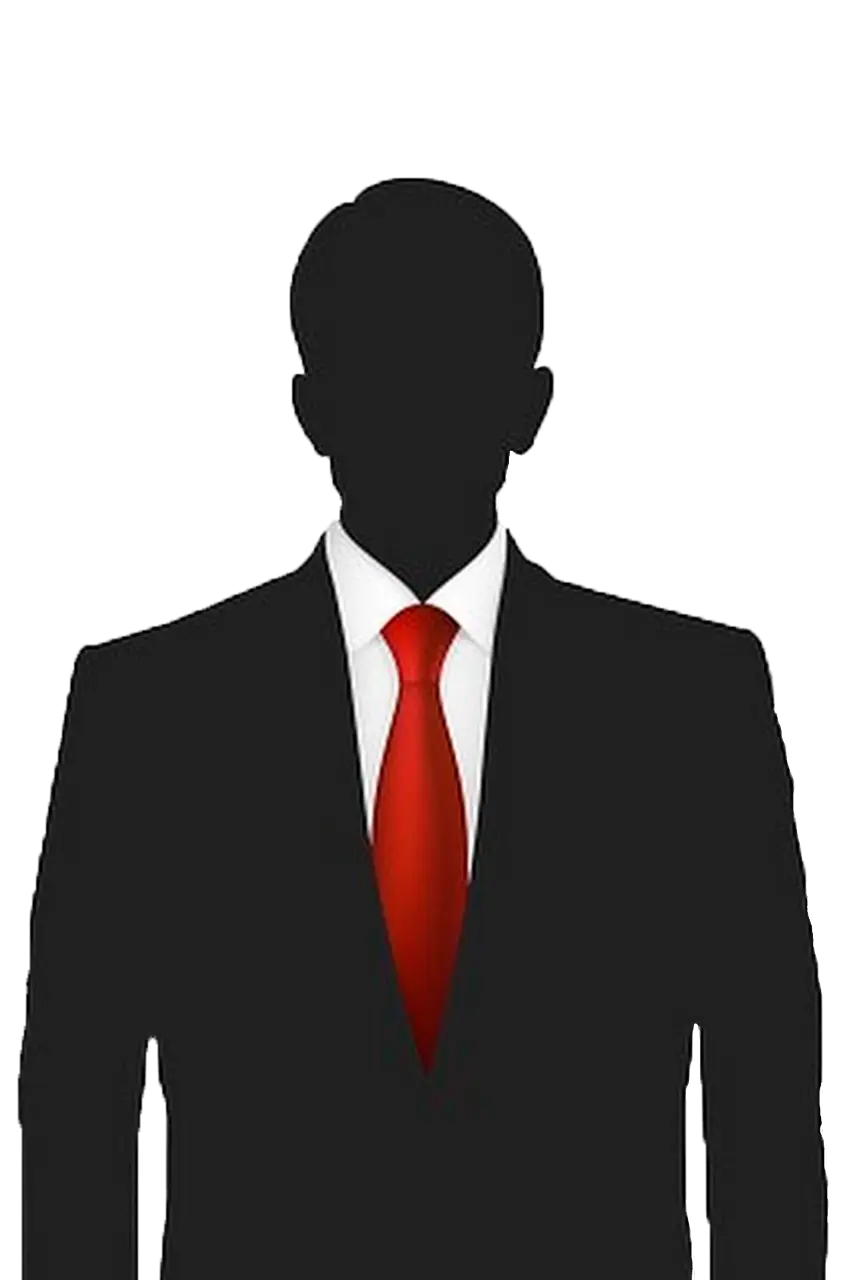
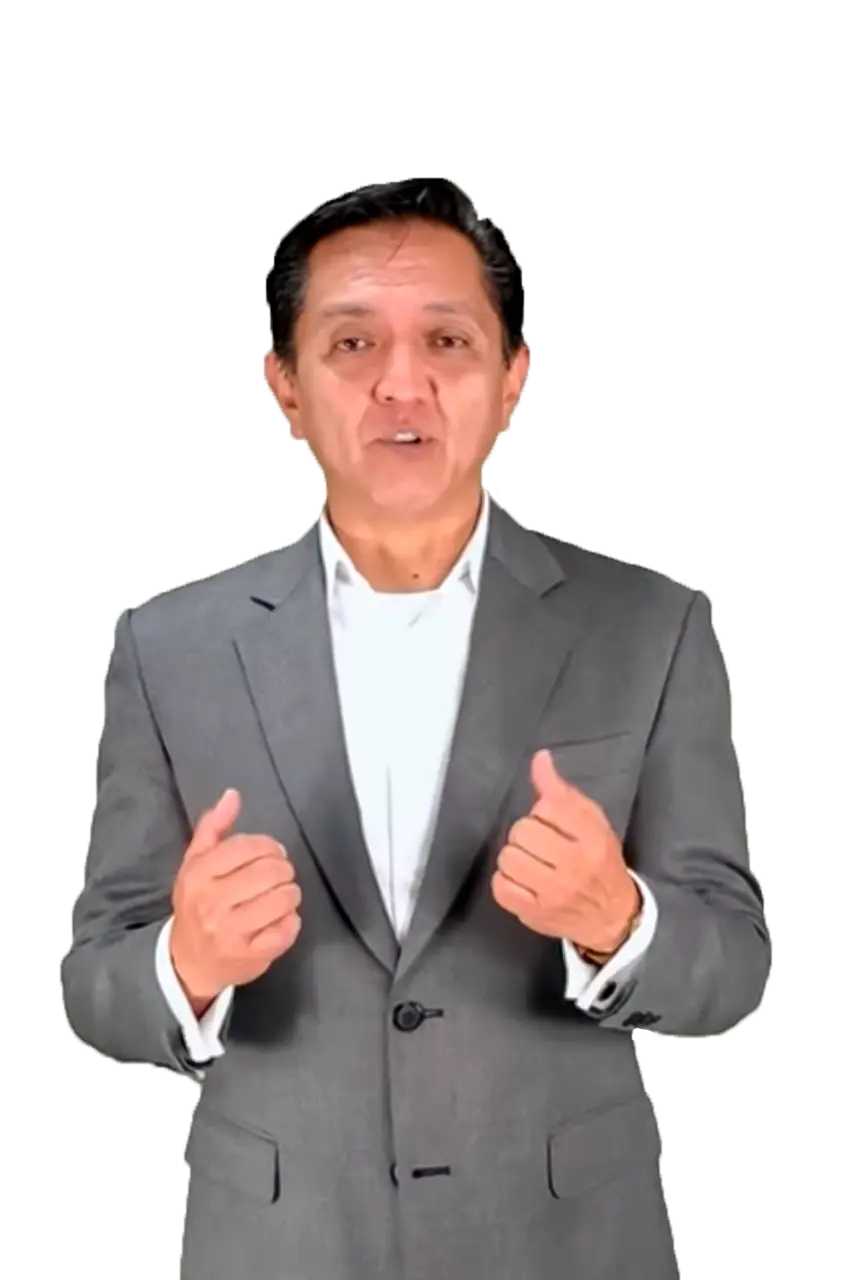
Update profile

diff --git a/src/data/perfiles-candidatos.ts b/src/data/perfiles-candidatos.ts
@@ -13,6 +13,7 @@ export interface PerfilCandidato {
   logrosDestacados?: string[];
   controversias?: string[];
   situacionLegal?: string;
+  religion?: string;
 }
 
 export interface BinomioCandidatos {
@@ -58,7 +59,9 @@ export const perfilesCandidatos: BinomioCandidatos[] = [
         "Inicio en el sindicalismo cocalero a los 23 años",
         "Elegido vicepresidente de federaciones cocaleras (2018)",
         "Ratificado por unanimidad en el cargo sindical (2021, 2023)",
-        "Asumió la Presidencia del Senado, ratificado en cinco ocasiones"
+        "Senador por Cochabamba (2020) - MAS",
+        "Presidente del Senado (2020-2025) - ratificado en cinco ocasiones",
+        "Primera candidatura presidencial (2025) - Alianza Popular"
       ],
       partidosAnteriores: [
         "Movimiento Al Socialismo (gestiones de Evo Morales y Luis Arce)"
@@ -131,11 +134,13 @@ export const perfilesCandidatos: BinomioCandidatos[] = [
       ],
       carreraPolitica: [
         "Vicepresidente del Concejo Municipal de Cochabamba (1992)",
-        "Alcalde de Cochabamba (1993-2000, cuatro periodos consecutivos)",
-        "Candidato presidencial (2000)",
-        "Primer Prefecto de Cochabamba elegido democráticamente (2005)",
-        "Candidato presidencial (2009) - segundo lugar",
-        "Alcalde de Cochabamba (2021-presente) - quinta vez"
+        "Alcalde de Cochabamba (1994-1996) - NFR (Electo)",
+        "Alcalde de Cochabamba (1996-2000) - NFR (Reelecto)",
+        "Alcalde de Cochabamba (2000) - NFR (Electo)",
+        "Candidato presidencial NFR (2002) - No electo",
+        "Prefecto de Cochabamba (2006-2008) - AUN (Electo)",
+        "Alcalde de Cochabamba (2021-2025) - SUMATE (Electo)",
+        "Candidato presidencial APB SUMATE (2025) - segunda candidatura"
       ],
       partidosAnteriores: [
         "Acción Democrática Nacionalista (ADN)",
@@ -199,13 +204,17 @@ export const perfilesCandidatos: BinomioCandidatos[] = [
         "Investigador en Woodrow Wilson Center"
       ],
       carreraPolitica: [
-        "Subsecretario de Inversión Pública (1989) - gobierno de Jaime Paz Zamora",
+        "Subsecretario de Inversión Pública y Cooperación Internacional (1989) - Ministerio de Planeamiento",
+        "Subsecretario de Inversión Pública (1990)",
         "Ministro de Finanzas (1992)",
         "Director de campaña electoral ADN (1993)",
         "Subjefe Nacional ADN (1995)",
         "Vicepresidente de Bolivia (1997-2001) - gobierno de Hugo Banzer",
         "Presidente de Bolivia (2001-2002)",
-        "Candidato presidencial (2005, 2014, 2020, 2025)"
+        "Candidato presidencial PODEMOS (2005) - No electo",
+        "Candidato presidencial PDC (2014) - No electo",
+        "Candidato presidencial Libre21 (2020) - Retirado antes de la elección",
+        "Candidato presidencial LIBRE (2025) - cuarta candidatura"
       ],
       partidosAnteriores: [
         "MIR", "ADN", "PODEMOS", "Partido Demócrata Cristiano (PDC)"
@@ -353,7 +362,8 @@ export const perfilesCandidatos: BinomioCandidatos[] = [
         "Primera mujer presidenta del Senado de Bolivia",
         "Alcaldesa de la segunda ciudad más poblada de Bolivia",
         "Liderazgo juvenil y universitario"
-      ]
+      ],
+      religion: "Metodista"
     },
     vicepresidente: {
       nombre: "Jorge Guillermo Richter Ramírez",
@@ -412,12 +422,12 @@ export const perfilesCandidatos: BinomioCandidatos[] = [
         "Administrador público municipal"
       ],
       carreraPolitica: [
-        "Líder de la agrupación ciudadana UNIR",
-        "Diputado por MIR (2002)",
-        "Candidato con PODEMOS (2005)",
-        "Presidente del Concejo Municipal de Tarija (2013)",
-        "Alcalde de Tarija (2015)",
-        "Senador por Comunidad Ciudadana (2020)"
+        "Diputado uninominal MIR-NM-FRI (2002-2003) - Electo",
+        "Diputado uninominal PODEMOS (2005-2010) - Electo",
+        "Concejal Municipal UNIR (2010-2015) - Electo",
+        "Alcalde Municipal UNIR (2015-2020) - Electo",
+        "Senador Comunidad Ciudadana (2020-2025) - Electo",
+        "Candidato presidencial PDC (2025) - primera candidatura presidencial"
       ],
       partidosAnteriores: [
         "MIR", "PODEMOS", "Comunidad Ciudadana", "UNIR", "Primero la Gente"
@@ -426,7 +436,8 @@ export const perfilesCandidatos: BinomioCandidatos[] = [
         "Hijo del expresidente Jaime Paz Zamora",
         "Experiencia ejecutiva y legislativa",
         "Formación internacional en gestión política"
-      ]
+      ],
+      religion: "Católico"
     },
     vicepresidente: {
       nombre: "Edmand Lara Montaño",
@@ -486,12 +497,14 @@ export const perfilesCandidatos: BinomioCandidatos[] = [
         "Jefe de barrio La Cuchilla, Club Hípico Santa Cruz"
       ],
       carreraPolitica: [
-        "Concejal municipal (1989-1991)",
-        "Alcalde de Santa Cruz (1996-2000, reelecto en 2000)",
+        "Concejal municipal (1989-1991) - UCS (Electo)",
+        "Alcalde de Santa Cruz (1995-1999) - UCS (Electo)",
+        "Alcalde de Santa Cruz (2000-2002) - UCS (Reelecto)",
+        "Candidato presidencial UCS (2002) - No electo",
         "Jefe nacional del partido UCS (desde 1996)",
-        "Candidato presidencial (2002)",
-        "Candidato a primer concejal (2015)",
-        "Alcalde de Santa Cruz (2021-2026) con 35.41% de votos"
+        "Candidato a primer concejal (2015) - UCS (Electo)",
+        "Alcalde de Santa Cruz (2021-2025) - UCS (Electo) con 35.41% de votos",
+        "Candidato presidencial UCS (2025) - segunda candidatura"
       ],
       partidosAnteriores: [
         "Unidad Cívica Solidaridad (UCS)", "ADN", "MIR"
@@ -547,11 +560,14 @@ export const perfilesCandidatos: BinomioCandidatos[] = [
         "Constructor de Green Tower (uno de los edificios más modernos de Bolivia)"
       ],
       carreraPolitica: [
-        "Ministro de Planeamiento (1991) - gobierno de Jaime Paz Zamora",
-        "Candidato a vicepresidente por MIR (1997)",
-        "Candidato presidencial con Unidad Nacional (2005, 2009, 2014)",
-        "Aspirante a vicepresidente con Jeanine Áñez (2020)",
-        "Candidato presidencial (2025)"
+        "Ministro de Planeamiento y Coordinación (1992) - gobierno de Jaime Paz Zamora",
+        "Candidato a vicepresidente por MIR (1997) - No electo",
+        "Candidato presidencial con Unidad Nacional (2005) - No electo",
+        "Asambleista Constituyente (2006-2009) - UN (Electo)",
+        "Candidato presidencial UN (2009) - No electo",
+        "Candidato presidencial Unidad Demócrata (2014) - No electo",
+        "Candidato a vicepresidente Juntos (2020) - Retirado antes de la elección",
+        "Candidato presidencial UNIDAD (2025) - cuarta candidatura"
       ],
       partidosAnteriores: [
         "MIR", "Unidad Nacional", "Consenso Popular", "Unidad Demócrata", "Juntos"
@@ -601,45 +617,47 @@ export const perfilesCandidatos: BinomioCandidatos[] = [
       slug: "ngp"
     },
     presidente: {
-      nombre: "No confirmado",
+      nombre: "Jaime Guillermo Dunn de Avila",
       cargo: "presidente",
-      fechaNacimiento: "No disponible",
-      lugarNacimiento: "No disponible",
-      profesion: "No disponible",
+      fechaNacimiento: "21 de mayo de 1968",
+      lugarNacimiento: "Camiri, Santa Cruz",
+      profesion: "Analista Financiero",
+      edad: 58,
       educacion: [
-        "No disponible"
+        "Formación en análisis financiero",
+        "Estudios especializados en economía y finanzas"
       ],
       experienciaLaboral: [
-        "No disponible"
+        "Analista financiero con experiencia en sector privado",
+        "Consultoría en gestión financiera"
       ],
       carreraPolitica: [
-        "No disponible"
+        "Primera candidatura presidencial (2025)"
       ],
-      partidosAnteriores: [
-        "No disponible"
+      partidosAnteriores: [],
+      logrosDestacados: [
+        "Experiencia en análisis financiero y económico",
+        "Propuesta de renovación política generacional"
       ]
     },
     vicepresidente: {
-      nombre: "No confirmado",
+      nombre: "Información pendiente",
       cargo: "vicepresidente",
       fechaNacimiento: "No disponible",
       lugarNacimiento: "No disponible",
       profesion: "No disponible",
       educacion: [
-        "No disponible"
+        "Información no disponible"
       ],
       experienciaLaboral: [
-        "No disponible"
+        "Información no disponible"
       ],
       carreraPolitica: [
-        "No disponible"
+        "Información no disponible"
       ],
-      partidosAnteriores: [
-        "No disponible"
-      ]
+      partidosAnteriores: []
     },
-    estado: "pendiente",
-    observaciones: "No hay candidatura confirmada aún y no hay perfiles disponibles"
+    estado: "habilitado"
   },
   {
     partido: {
@@ -648,22 +666,27 @@ export const perfilesCandidatos: BinomioCandidatos[] = [
       slug: "adn"
     },
     presidente: {
-      nombre: "Paulo César Rodríguez Folster",
+      nombre: "Pavel Antonio Aracena Vargas",
       cargo: "presidente",
-      fechaNacimiento: "No disponible",
-      lugarNacimiento: "No disponible",
-      profesion: "No disponible",
+      fechaNacimiento: "No especificada",
+      lugarNacimiento: "Challapata, Oruro",
+      profesion: "Ingeniero Civil",
+      edad: 55,
       educacion: [
-        "Información no disponible"
+        "Ingeniería Civil",
+        "Formación técnica en construcción e infraestructura"
       ],
       experienciaLaboral: [
-        "Información no disponible"
+        "Ejercicio profesional como ingeniero civil",
+        "Experiencia en sector de construcción"
       ],
       carreraPolitica: [
-        "Aspirante a la presidencia por Alianza Libertad y Progreso ADN"
+        "Primera candidatura presidencial (2025)"
       ],
-      partidosAnteriores: [
-        "Alianza Libertad y Progreso ADN"
+      partidosAnteriores: [],
+      logrosDestacados: [
+        "Experiencia técnica en ingeniería civil",
+        "Propuesta renovadora en ADN"
       ],
       situacionLegal: "Inhabilitado por el TSE"
     },

diff --git a/src/app/components/card-candidatos.tsx b/src/app/components/card-candidatos.tsx
@@ -5,19 +5,19 @@ export function CardCandidatos() {
     {
       title: "Andrónico Rodríguez",
       team: "ALIANZA POPULAR",
-      src: "/imagenes2/IMAGENES PAGINA WEB/andronico.jpg",
+      src: "/imagenes2/IMAGENES PAGINA WEB/andronico.webp",
       slug: "alianza-popular",
     },
     {
-      title: "A confirmar",
+      title: "Pavel Antonio Aracena Vargas",
       team: "ADN",
-      src: "/imagenes2/IMAGENES PAGINA WEB/proximamente-extra.jpg",
+      src: "/imagenes2/IMAGENES PAGINA WEB/pavel.webp",
       slug: "adn",
     },
     {
       title: "Manfred Reyes Villa",
       team: "APB-SUMATE",
-      src: "/imagenes2/IMAGENES PAGINA WEB/Manfred.jpg",
+      src: "/imagenes2/IMAGENES PAGINA WEB/Manfred.webp",
       slug: "apb-sumate",
     },
     {
@@ -29,37 +29,37 @@ export function CardCandidatos() {
     {
       title: "Jorge Tuto Quiroga",
       team: "LIBRE",
-      src: "/imagenes2/IMAGENES PAGINA WEB/tutito.jpg",
+      src: "/imagenes2/IMAGENES PAGINA WEB/tutito.webp",
       slug: "libre",
     },
     {
       title: "Jhonny Fernández",
       team: "FP",
-      src: "/imagenes2/IMAGENES PAGINA WEB/jhonny-fernandez.jpg",
+      src: "/imagenes2/IMAGENES PAGINA WEB/jhonny-fernandez.webp",
       slug: "fp",
     },
     {
       title: "Eduardo Del Castillo",
       team: "MAS-IPSP",
-      src: "/imagenes2/IMAGENES PAGINA WEB/eduardo-del-castillo.jpg",
+      src: "/imagenes2/IMAGENES PAGINA WEB/eduardo-del-castillo.webp",
       slug: "mas-ipsp",
     },
     {
       title: "Decidió No Participar",
       team: "MORENA",
-      src: "/imagenes2/IMAGENES PAGINA WEB/eva-copa.jpg",
+      src: "/imagenes2/IMAGENES PAGINA WEB/morena.webp",
       slug: "morena",
     },
      {
       title: "Samuel Doria Medina",
       team: "Alianza Unidad",
-      src: "/imagenes2/IMAGENES PAGINA WEB/samuel-doria-medina.jpg",
+      src: "/imagenes2/IMAGENES PAGINA WEB/samuel-doria-medina.webp",
       slug: "alianza-unidad",
     },
     {
       title: "Rodrigo Paz Pereira",
       team: "PDC",
-      src: "/imagenes2/IMAGENES PAGINA WEB/rodrigo-paz.jpg",
+      src: "/imagenes2/IMAGENES PAGINA WEB/rodrigo-paz.webp",
       slug: "pdc",
     },
     

diff --git a/src/components/biografia-candidato.tsx b/src/components/biografia-candidato.tsx
@@ -1,7 +1,7 @@
 'use client';
 
 import { useState } from 'react';
-import { User, BookOpen, Calendar, MapPin, GraduationCap, Briefcase, Flag, Award, AlertTriangle, Scale } from 'lucide-react';
+import { User, BookOpen, Calendar, MapPin, GraduationCap, Briefcase, Flag, Award, AlertTriangle, Scale, Heart } from 'lucide-react';
 import { PerfilCandidato } from '@/data/perfiles-candidatos';
 import { Badge } from '@/components/ui/badge';
 
@@ -143,6 +143,18 @@ export default function BiografiaCandidato({ candidato, partidoColor = '#3B82F6'
                 </h3>
                 <p className="text-gray-700 bg-red-50 p-3 rounded-lg border border-red-200">
                   {candidato.situacionLegal}
+                </p>
+              </div>
+            )}
+
+            {candidato.religion && (
+              <div>
+                <h3 className="flex items-center space-x-2 text-lg font-semibold text-gray-900 mb-3">
+                  <Heart className="w-5 h-5 text-purple-600" />
+                  <span>Religión</span>
+                </h3>
+                <p className="text-gray-700 bg-purple-50 p-3 rounded-lg border border-purple-200">
+                  {candidato.religion}
                 </p>
               </div>
             )}

diff --git a/src/data/partidos-politicos.ts b/src/data/partidos-politicos.ts
@@ -47,7 +47,7 @@ export const partidosPoliticos: PartidoPolitico[] = [
     nombre: "Acción Democrática Nacionalista",
     sigla: "ADN",
     programas: "https://drive.google.com/file/d/1boN9_AUUMPVh2JjhAaeNe9Fg20qv5Ptu/view?usp=sharing",
-    presidente: "A confirmar",
+    presidente: "Pavel Antonio Aracena Vargas",
     vicepresidente: "Antonio Saravia",
     imagenes: {
       logo: "/binomios/adn/logo.png", // Agrega cuando tengas el logo
